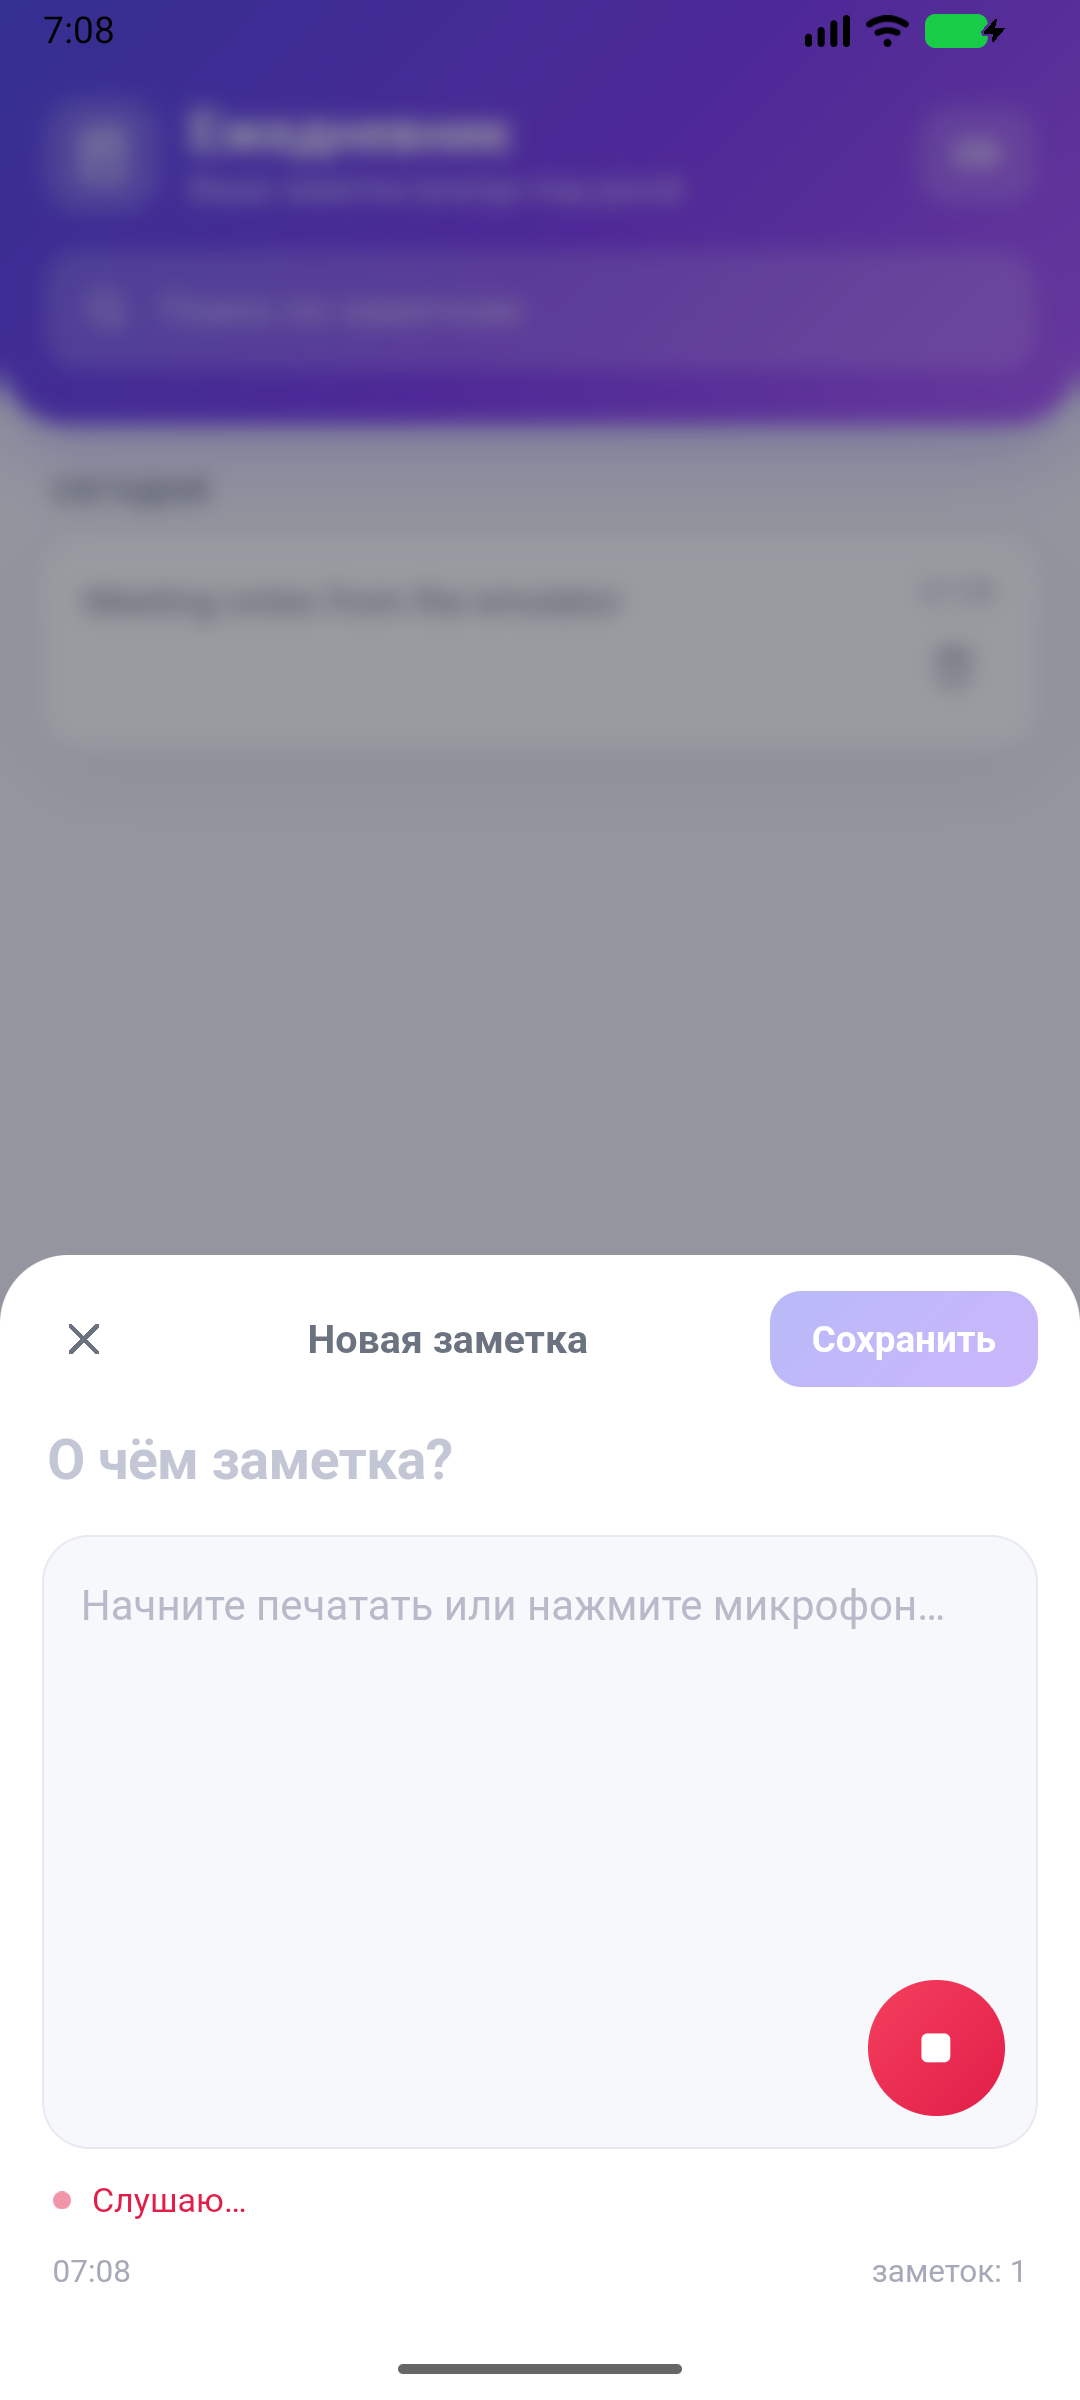
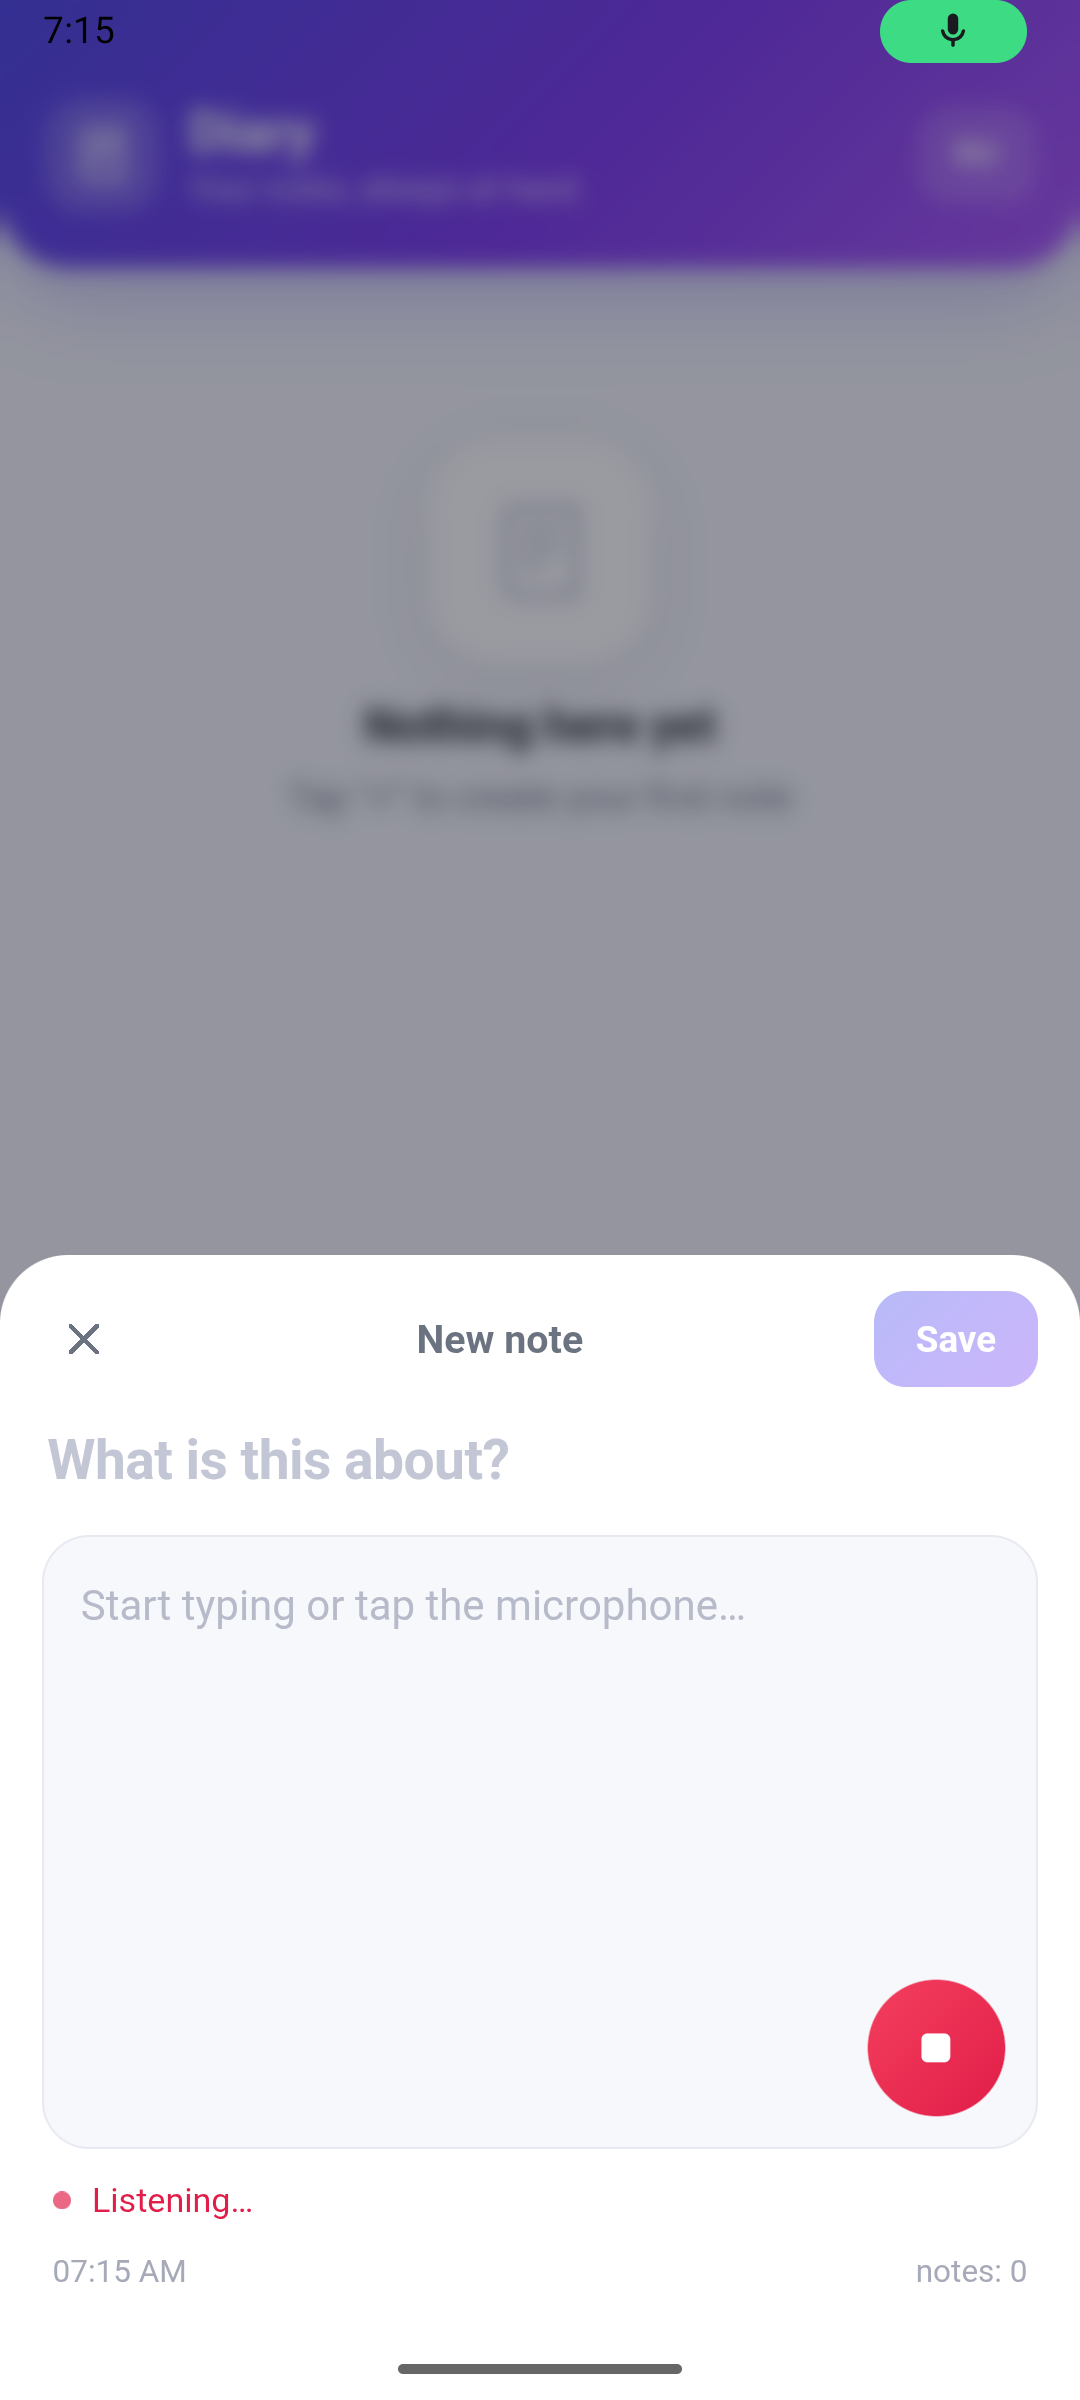
chore: env setup script, npm android scripts, README with environment notes and screenshots

diff --git a/src/voice.js b/src/voice.js
@@ -34,8 +34,11 @@ export async function startVoice({ lang = 'ru-RU', onPartial, onFinal, onEnd, on
     })
     const state = await SpeechRecognition.addListener('listeningState', (data) => {
       if (data?.status === 'stopped') {
-        cleanup()
-        onEnd?.()
+        // Give the engine a moment to deliver the final transcript, then release listeners
+        setTimeout(() => {
+          cleanup()
+          onEnd?.()
+        }, 700)
       }
     })
 

diff --git a/README.md b/README.md
@@ -2,13 +2,17 @@
 
 Мобильное приложение-ежедневник: заметки создаются, редактируются и удаляются, хранятся локально на устройстве, есть голосовой ввод в поле содержания и переключение языка RU/EN.
 
+| Список | Голосовой ввод | English |
+|---|---|---|
+| ![Список заметок](docs/02-list.png) | ![Голосовой ввод](docs/03-voice.png) | ![English](docs/04-english.png) |
+
 ## Что умеет
 
-- список заметок с группировкой по дням и поиском;
+- список заметок с группировкой по дням (Сегодня/Вчера/дата) и поиском;
 - создание, редактирование и удаление заметок;
 - локальное хранение (Capacitor Preferences → Android SharedPreferences / localStorage в браузере) — заметки сохраняются между запусками;
 - быстрый ввод: FAB «+» открывает шторку с полем содержания и кнопкой микрофона;
-- голосовой ввод: нативный плагин `@capacitor-community/speech-recognition` на Android, Web Speech API в браузере; распознанный текст подставляется в поле содержания;
+- голосовой ввод: нативный плагин `@capacitor-community/speech-recognition` на Android, Web Speech API в браузере; распознанный текст подставляется в поле содержания (частичные результаты видны сразу);
 - интерфейс RU/EN, выбранный язык сохраняется.
 
 ## Стек
@@ -29,27 +33,24 @@ npm run dev          # http://127.0.0.1:5173
 Требования: JDK 17+ (проверено на JDK 21), Android SDK с platform-tools, build-tools 36 и платформой API 37.
 
 ```bash
-# 1. веб-сборка + копирование в нативный проект
-npm run build
-npx cap sync android
+npm run android:sync     # сборка веба + cap sync
+npm run android:apk      # сборка APK -> android/app/build/outputs/apk/debug/app-debug.apk
+```
 
-# 2. сборка APK
-cd android
-gradlew.bat assembleDebug
-# APK: android/app/build/outputs/apk/debug/app-debug.apk
+Установка на запущенный эмулятор:
 
-# 3. установка на запущенный эмулятор/устройство
-adb install -r app/build/outputs/apk/debug/app-debug.apk
+```bash
+adb install -r android/app/build/outputs/apk/debug/app-debug.apk
 adb shell am start -n com.diary.app/.MainActivity
 ```
 
 Открыть проект в Android Studio:
 
 ```bash
-npx cap open android
+npm run android:open
 ```
 
-Эмулятор (AVD уже создан в этом окружении):
+Эмулятор:
 
 ```bash
 emulator -avd Medium_Phone_API_37.0
@@ -57,21 +58,47 @@ emulator -avd Medium_Phone_API_37.0
 
 В Android Studio: **Device Manager → Medium_Phone_API_37.0 → ▶**, затем **Run 'app'**.
 
+## Окружение этой машины
+
+| Компонент | Состояние |
+|---|---|
+| Node.js / npm | 26.13.0 / 11.20.0 — установлены |
+| Git | 2.56.0 — установлен |
+| Android Studio | 2026.2.2 — установлена (`C:\Program Files\Android\Android Studio`) |
+| Android SDK | `E:\Android` (platform-tools 37.0.1, build-tools 36.0.0, platform android-37.0, system-image android-37.0 google_apis_playstore x86_64) |
+| AVD | `Medium_Phone_API_37.0` (Pixel-подобный, API 37, Play Store) |
+| Ускорение | WHPX установлен и работает (`emulator-check accel` → ok) |
+| JDK | на PATH был только JRE 1.8, поэтому скачан Temurin JDK 21 в `tools/jdk/jdk-21.0.13+9` |
+
+Особенности:
+
+- `winget` в этой сессии недоступен, JDK скачан напрямую с adoptium.net.
+- Android SDK доступен только на чтение, поэтому в проекте зафиксированы `compileSdk 37` и `buildToolsVersion 36.0.0` (`android/variables.gradle`), а библиотечные модули Capacitor получают ту же версию build-tools из `android/build.gradle`.
+- Debug-сборка подписывается локальным ключом `android/keystore/debug.keystore` (пароль `android`), чтобы не зависеть от `~/.android/debug.keystore`.
+
 ### Переменные окружения
+
+`ANDROID_HOME`, `ANDROID_SDK_ROOT` и `JAVA_HOME` не были прописаны в системе. Скрипт:
+
+```powershell
+powershell -ExecutionPolicy Bypass -File .\scripts\setup-env.ps1
+```
+
+или вручную в текущей сессии:
 
 ```powershell
 $env:ANDROID_HOME='E:\Android'
 $env:JAVA_HOME='E:\DIarryApp\tools\jdk\jdk-21.0.13+9'
 $env:GRADLE_USER_HOME='E:\DIarryApp\.gradle'
+$env:PATH="$env:JAVA_HOME\bin;$env:ANDROID_HOME\platform-tools;$env:ANDROID_HOME\emulator;$env:PATH"
 ```
-
-Особенности этого окружения: Android SDK доступен только на чтение, поэтому в проекте зафиксированы `compileSdk 37`, `buildToolsVersion 36.0.0` (см. `android/variables.gradle`), а для подписи debug-сборки используется локальный ключ `android/keystore/debug.keystore`.
 
 ## Голосовой ввод
 
-- Android: `SpeechRecognition.start({ partialResults: true })`, распознанный текст добавляется в конец поля содержания (частичные результаты показываются сразу).
+- Android: `SpeechRecognition.start({ partialResults: true })`; текст добавляется в конец поля содержания, частичные результаты обновляются на лету.
 - Разрешение `RECORD_AUDIO` объявлено в `android/app/src/main/AndroidManifest.xml`, сервис распознавания — в блоке `<queries>`.
 - Если на устройстве нет сервиса распознавания речи, показывается сообщение «Голосовой ввод недоступен».
+- Запись можно остановить повторным нажатием на микрофон; через 30 секунд она останавливается автоматически.
 
 ## Структура
 
@@ -83,6 +110,8 @@ src/
   i18n.js        — сообщения RU/EN
   style.css      — оформление
 android/         — нативный проект Capacitor
+scripts/         — вспомогательные скрипты окружения
+docs/            — скриншоты
 ```
 
 ## Проверка на эмуляторе
@@ -91,3 +120,5 @@ android/         — нативный проект Capacitor
 2. Установить APK и открыть приложение.
 3. Нажать «+», ввести текст, нажать микрофон (разрешить доступ к микрофону при запросе) — текст появится в поле содержания.
 4. Сохранить заметку, перезапустить приложение — заметка на месте.
+
+Проверено на эмуляторе: создание, сохранение, перезапуск, редактирование, удаление, переключение RU/EN, запуск нативного распознавания речи (`RecognitionServiceImpl` получает запрос, микрофон открывается, UI показывает «Слушаю…»).
